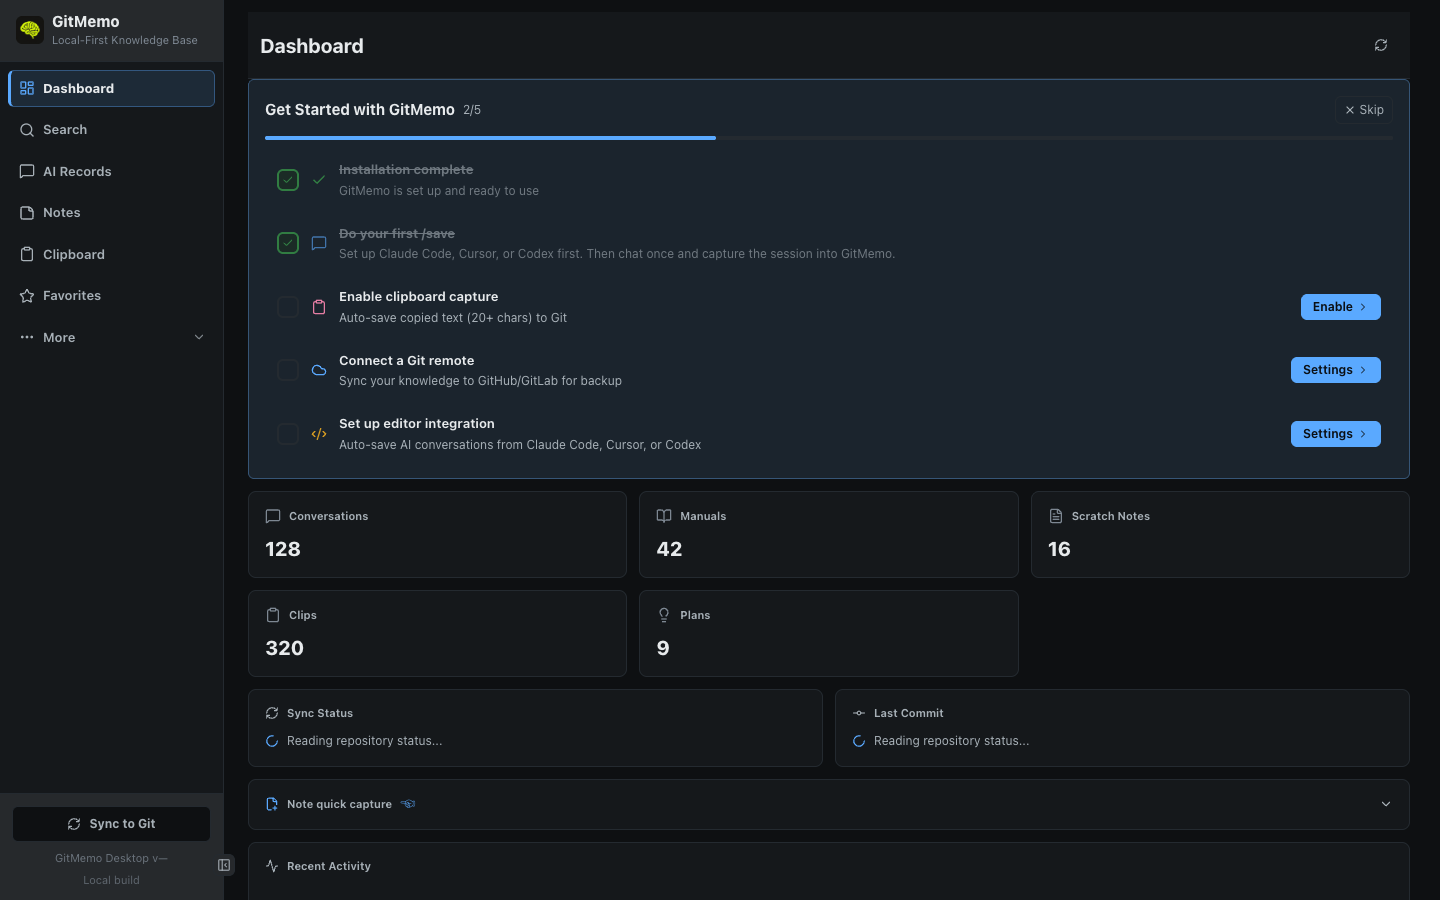
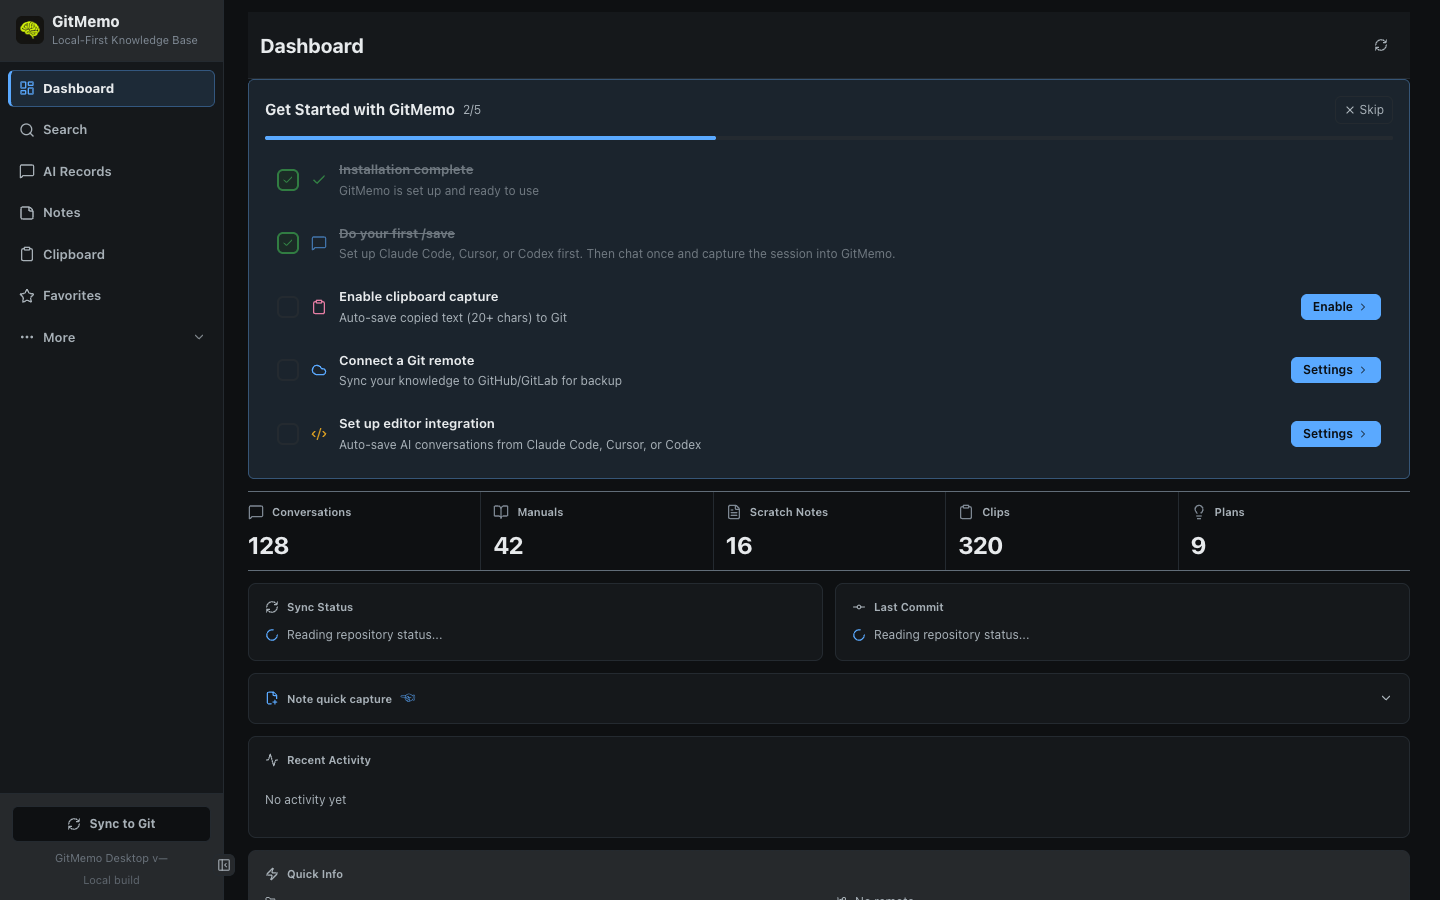
feat(desktop): turn dashboard stats into a hairline strip in both skins

diff --git a/desktop/src/index.css b/desktop/src/index.css
@@ -5263,20 +5263,46 @@ a:focus-visible {
 
 .gm-dashboard-stat-grid {
   display: grid;
-  gap: var(--gm-card-header-gap);
-  grid-template-columns: repeat(6, minmax(0, 1fr));
+  gap: 0;
+  grid-template-columns: repeat(5, minmax(0, 1fr));
+  border-top: 1px solid var(--gm-line-strong);
+  border-bottom: 1px solid var(--gm-line-strong);
   margin-bottom: var(--gm-section-gap);
 }
 
 .gm-dashboard-stat-card {
   color: var(--text);
   cursor: pointer;
-  grid-column: span 2;
+  grid-column: auto;
   overflow: hidden;
   position: relative;
   text-align: left;
-  transition: background 0.15s ease, border-color 0.15s ease;
+  transition: background 0.15s ease;
   width: 100%;
+  background: transparent;
+  border: 0;
+  border-left: 1px solid var(--gm-line);
+  border-radius: 0;
+  box-shadow: none;
+  padding: var(--gm-space-4) var(--gm-space-4) var(--gm-space-4) var(--gm-space-4);
+}
+
+.gm-dashboard-stat-card:first-child {
+  border-left: 0;
+  padding-left: 0;
+}
+
+@media (max-width: 1100px) {
+  .gm-dashboard-stat-grid { grid-template-columns: repeat(3, minmax(0, 1fr)); }
+  .gm-dashboard-stat-card:nth-child(3n + 1) { border-left: 0; padding-left: 0; }
+  .gm-dashboard-stat-card:nth-child(n + 4) { border-top: 1px solid var(--gm-line); }
+}
+
+@media (max-width: 700px) {
+  .gm-dashboard-stat-grid { grid-template-columns: repeat(2, minmax(0, 1fr)); }
+  .gm-dashboard-stat-card:nth-child(3n + 1) { border-left: 1px solid var(--gm-line); padding-left: var(--gm-space-4); }
+  .gm-dashboard-stat-card:nth-child(odd) { border-left: 0; padding-left: 0; }
+  .gm-dashboard-stat-card:nth-child(n + 3) { border-top: 1px solid var(--gm-line); }
 }
 
 .gm-dashboard-stat-card[data-clickable="false"] {
@@ -5305,10 +5331,10 @@ a:focus-visible {
 
 .gm-dashboard-stat-value {
   color: var(--text);
-  font-size: var(--gm-font-xl);
-  font-weight: 780;
-  letter-spacing: 0;
-  line-height: var(--gm-leading-title);
+  font-size: var(--gm-font-2xl);
+  font-weight: 720;
+  letter-spacing: -0.02em;
+  line-height: 1.1;
 }
 
 .gm-dashboard-stat-card[data-loading="true"] .gm-dashboard-stat-value {
